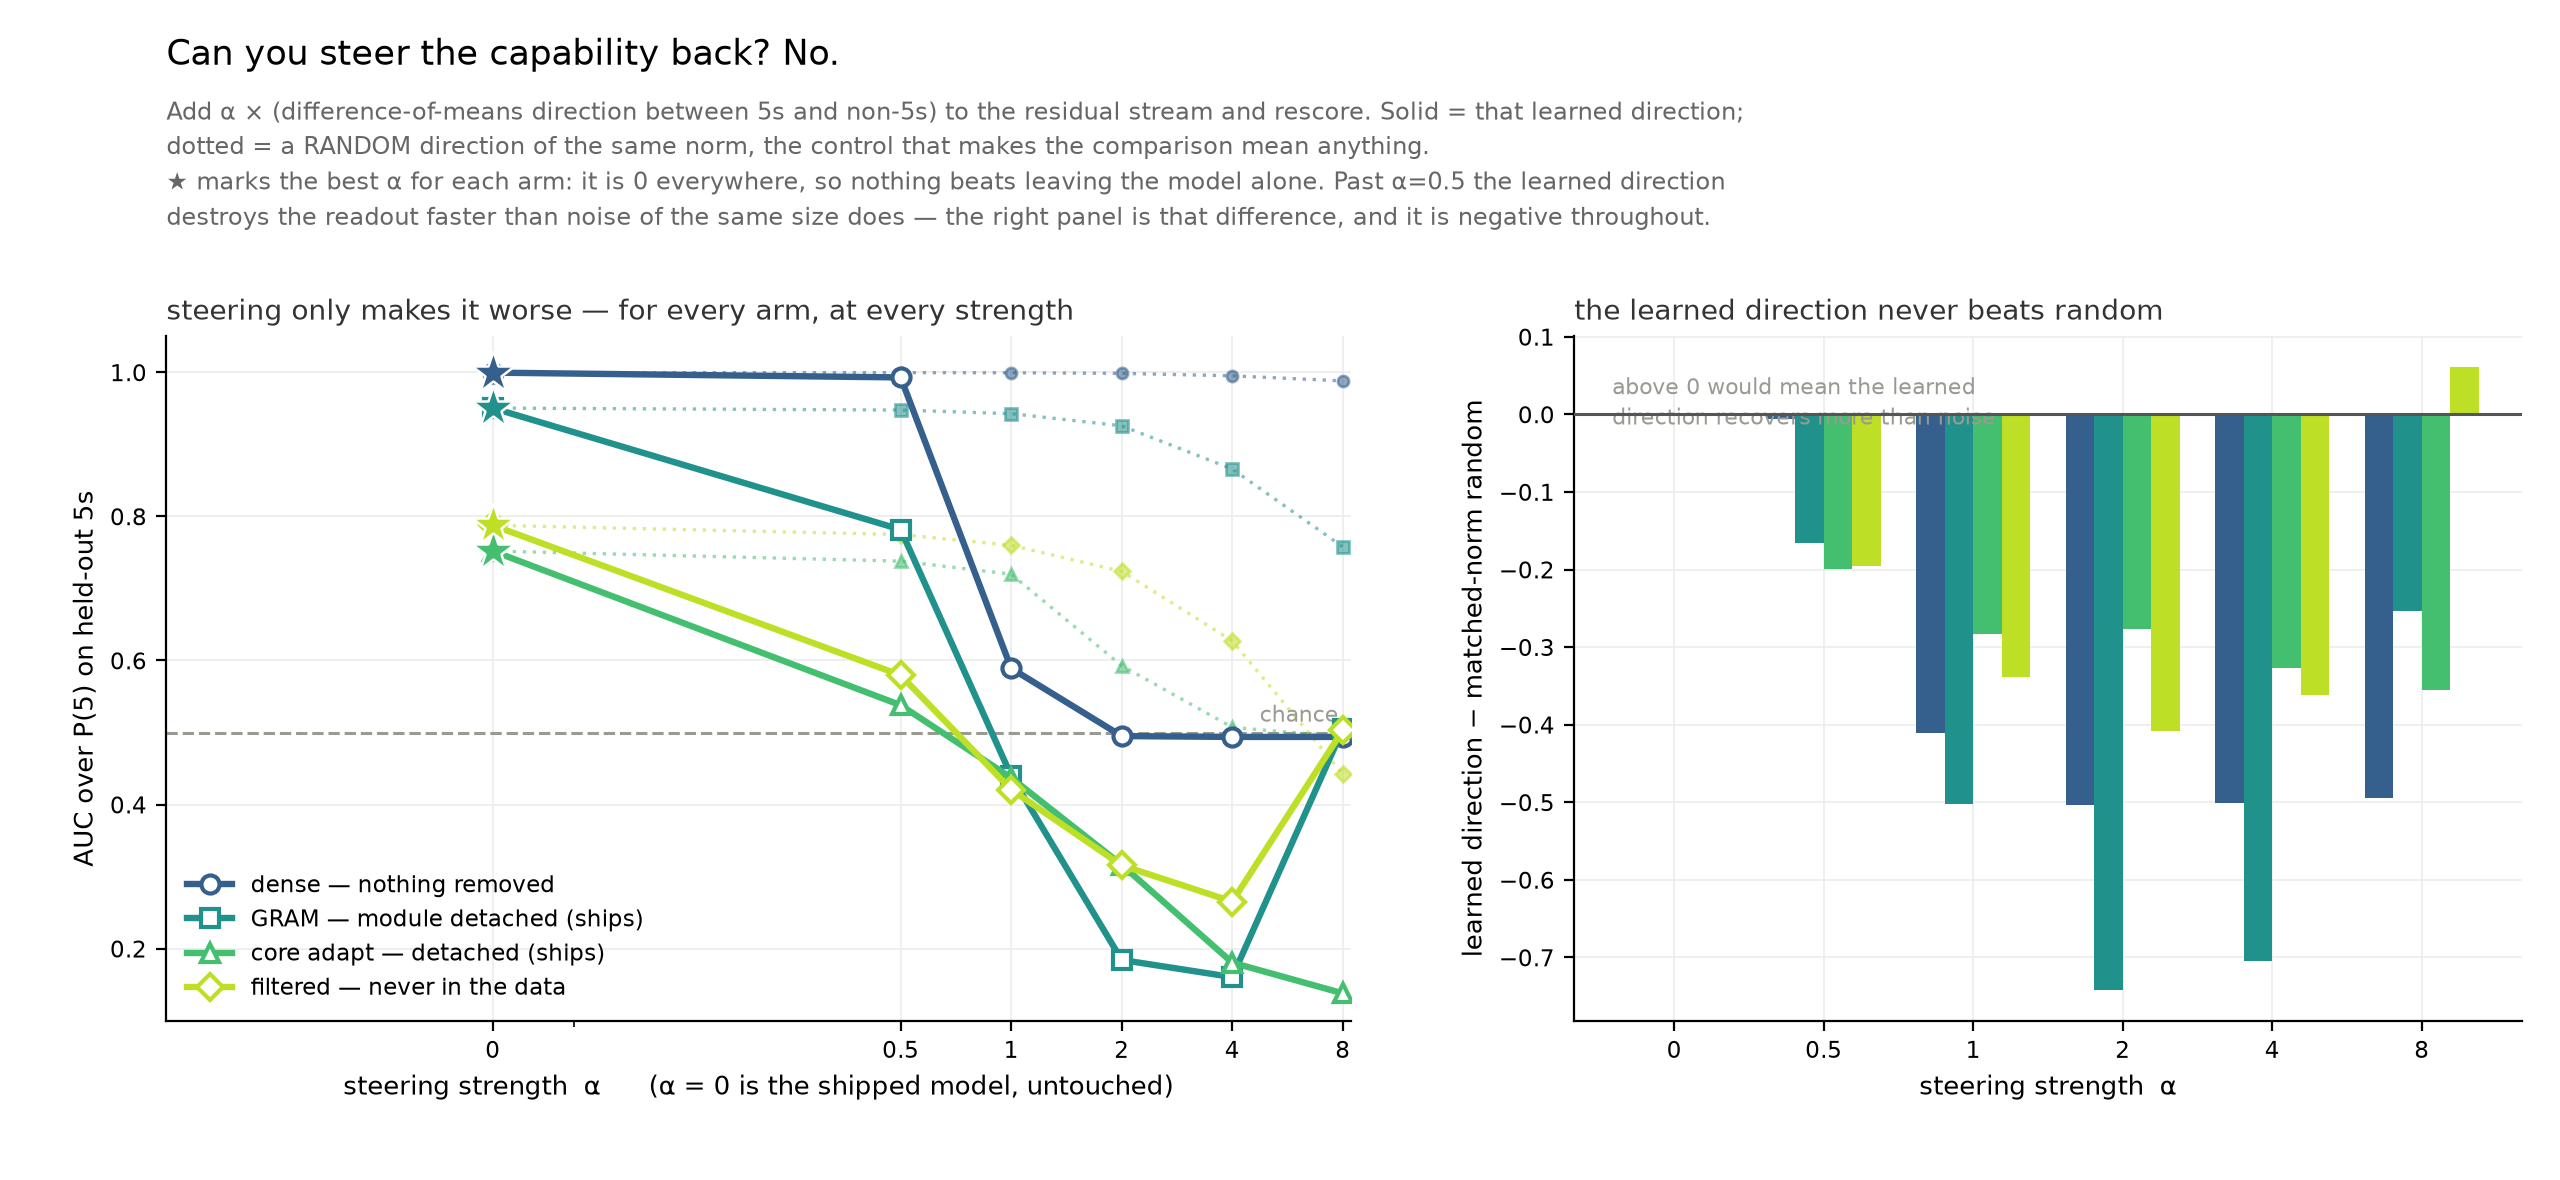
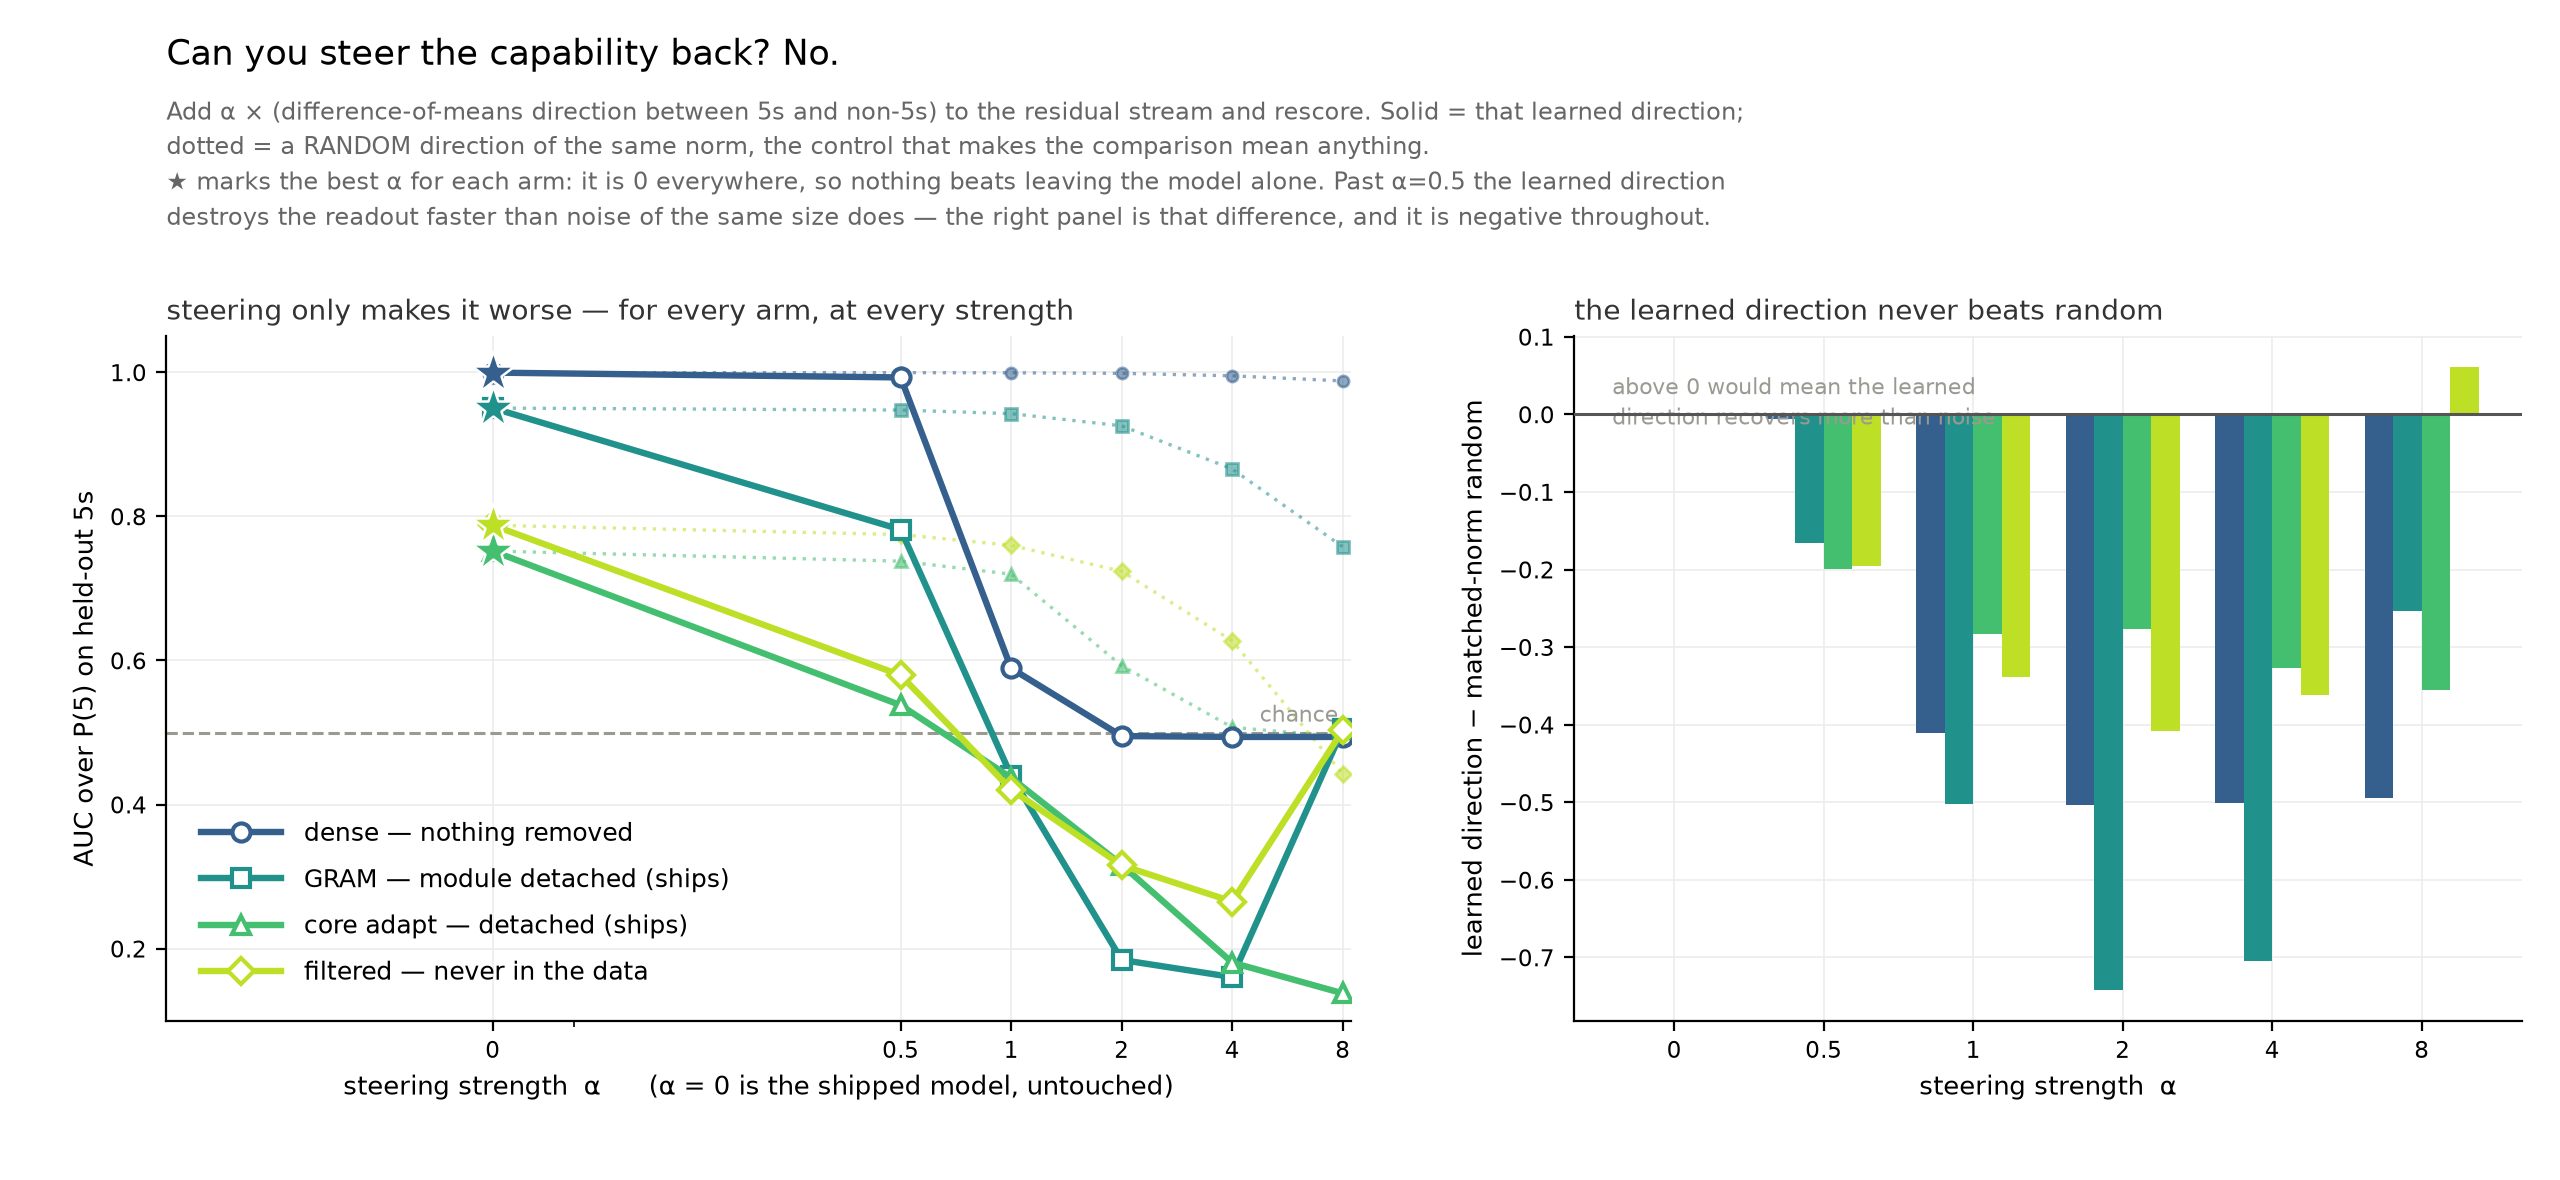
Give the legends room to breathe
The legend row was crowded against the axis labels and its entries ran together. Taller
figure, more bottom margin, larger type (9->10pt), longer line samples so the marker and
the dash are both legible, and wider column and handle-text spacing. The in-figure
legends on probe_depth and steering get the same treatment.

Changed region(s): [[0.0625, 0.7017, 0.2812, 0.8542]]

diff --git a/figs_retrain_curve.py b/figs_retrain_curve.py
@@ -34,8 +34,8 @@ RATES = sorted(runs)
 INK, GREY = L.C["ink"], L.C["grey"]
 TICKS = [0, 2, 5, 10, 20, 40, 100, 300, 1000]
 
-fig, axes = plt.subplots(1, len(RATES), figsize=(12.4, 5.9), dpi=200, squeeze=False)
-fig.subplots_adjust(left=0.070, right=0.985, top=0.760, bottom=0.200, wspace=0.14)
+fig, axes = plt.subplots(1, len(RATES), figsize=(12.4, 6.8), dpi=200, squeeze=False)
+fig.subplots_adjust(left=0.070, right=0.985, top=0.780, bottom=0.255, wspace=0.14)
 
 summary = {}
 for col, rate in enumerate(RATES):
@@ -84,8 +84,9 @@ handles = [Line2D([], [], color=L.STYLE[k]["color"], ls=L.STYLE[k]["ls"],
                   lw=L.STYLE[k]["lw"], marker=L.STYLE[k]["marker"], ms=L.STYLE[k]["ms"],
                   markerfacecolor="white", markeredgewidth=1.5, label=L.LABEL[k])
            for k in ARMS]
-fig.legend(handles=handles, loc="lower center", bbox_to_anchor=(0.5, 0.095), ncol=4,
-           frameon=False, fontsize=9.0, handlelength=3.4, columnspacing=2.2)
+fig.legend(handles=handles, loc="lower center", bbox_to_anchor=(0.5, 0.098), ncol=4,
+           frameon=False, fontsize=10.0, handlelength=3.8, columnspacing=3.4,
+           handletextpad=0.9, borderpad=1.0)
 
 # steps-to-recover in its own strip, not on top of the lines
 def cell(rate, key):
@@ -101,7 +102,7 @@ txt = "steps to reach 95% of dense:     " + "     ".join(
     ", ".join(f"{L.LABEL[k].split(' —')[0]} {cell(r, k)}"
               for k in ARMS if k != "dense")
     for r in RATES)
-fig.text(0.5, 0.028, txt, fontsize=8.6, color=INK, ha="center")
+fig.text(0.5, 0.030, txt, fontsize=9.0, color=INK, ha="center")
 
 fig.suptitle("Core adaptation retrains fastest — the only route that comes back",
              fontsize=13.0, x=0.070, ha="left", y=0.970)

diff --git a/figs_steer.py b/figs_steer.py
@@ -59,7 +59,8 @@ ax.set_ylabel("AUC over P(5) on held-out 5s", fontsize=9.2)
 ax.set_ylim(0.10, 1.05)
 ax.set_title("steering only makes it worse — for every arm, at every strength",
              fontsize=10.2, color=INK, loc="left")
-ax.legend(fontsize=8.2, frameon=False, loc="lower left", labelspacing=0.5)
+ax.legend(fontsize=9.0, frameon=False, loc="lower left", labelspacing=0.85,
+          handlelength=3.2, handletextpad=0.9, borderpad=0.9)
 
 # right: how much does the learned direction buy over its own matched-norm control?
 w = 0.19

diff --git a/figs_probe.py b/figs_probe.py
@@ -83,7 +83,8 @@ ax.set_axisbelow(True)
 for sp in ("top", "right"):
     ax.spines[sp].set_visible(False)
 ax.tick_params(labelsize=8.4)
-ax.legend(fontsize=8.3, frameon=False, loc="lower left", labelspacing=0.55)
+ax.legend(fontsize=9.0, frameon=False, loc="lower left", labelspacing=0.85,
+          handlelength=3.2, handletextpad=0.9, borderpad=0.9)
 
 fig.suptitle("How far down does the 5 survive — and does a probe see more than the model emits?",
              fontsize=12.4, x=0.075, ha="left", y=0.972)
